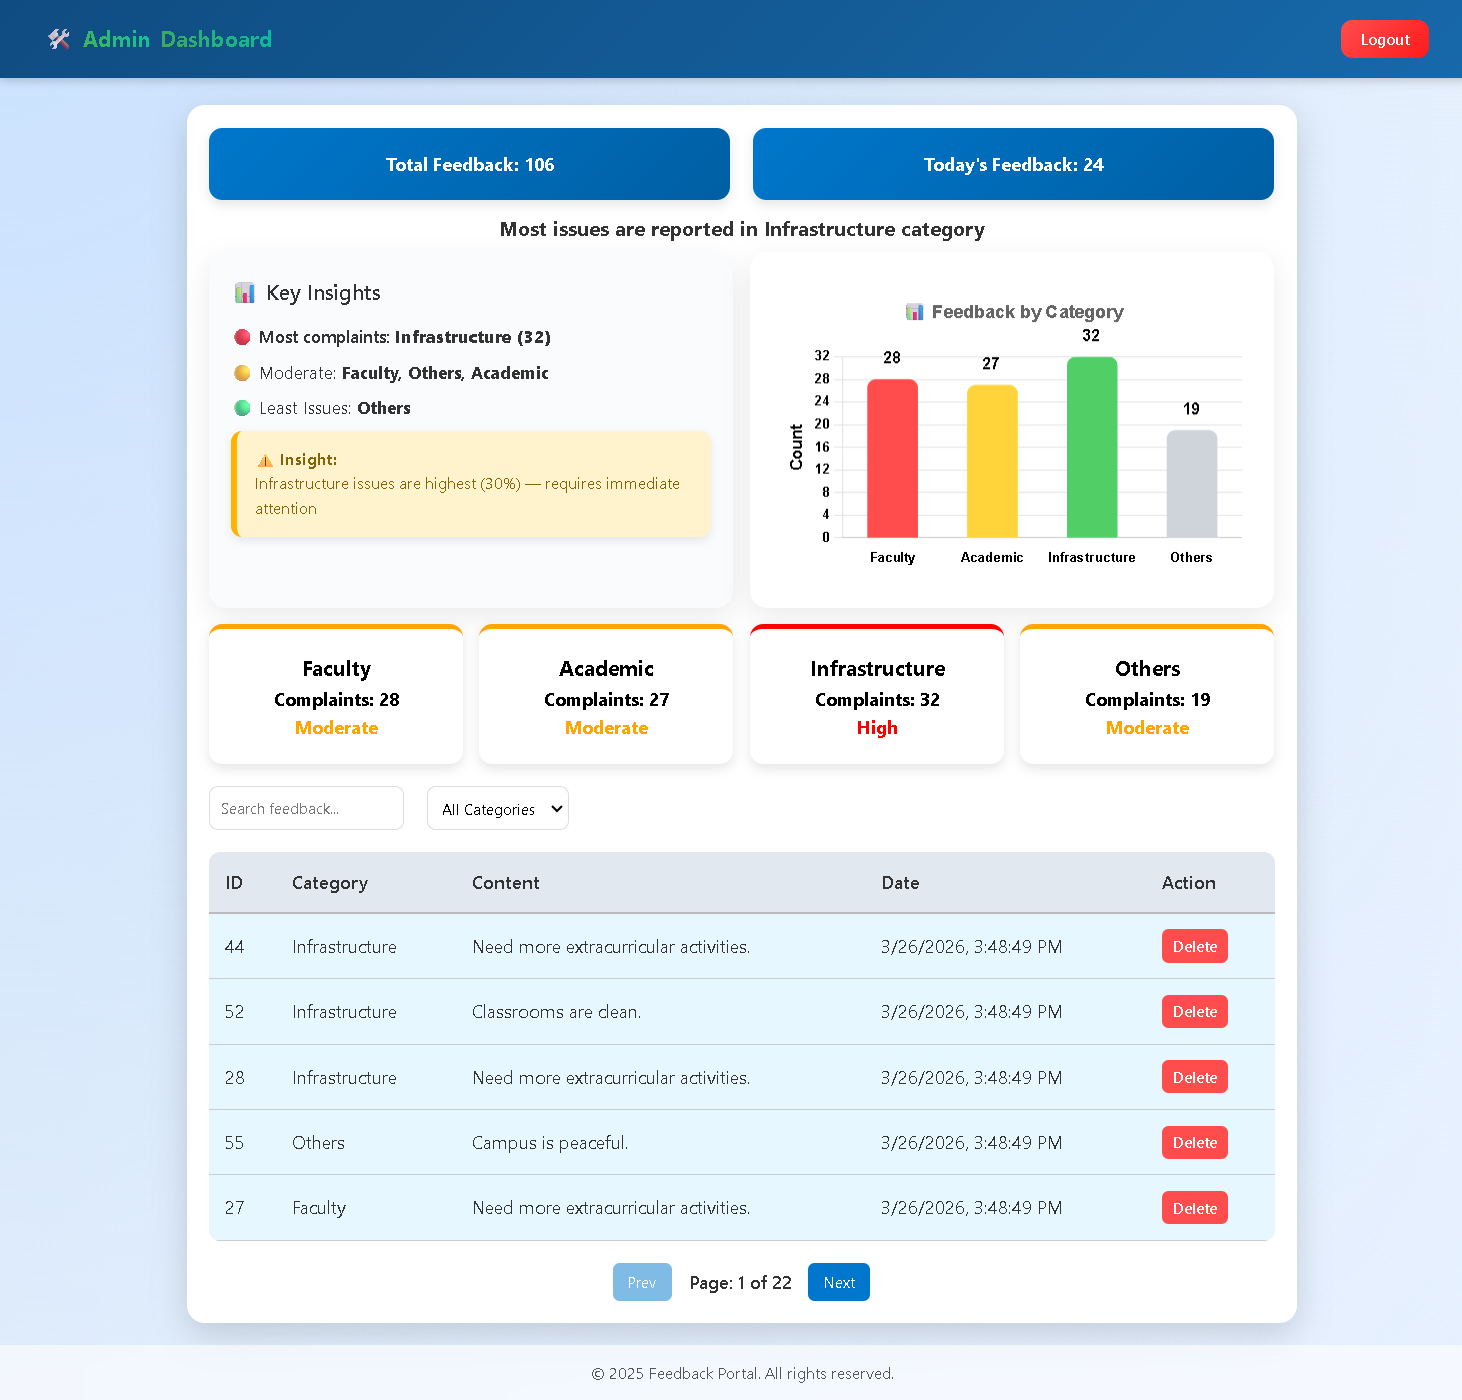
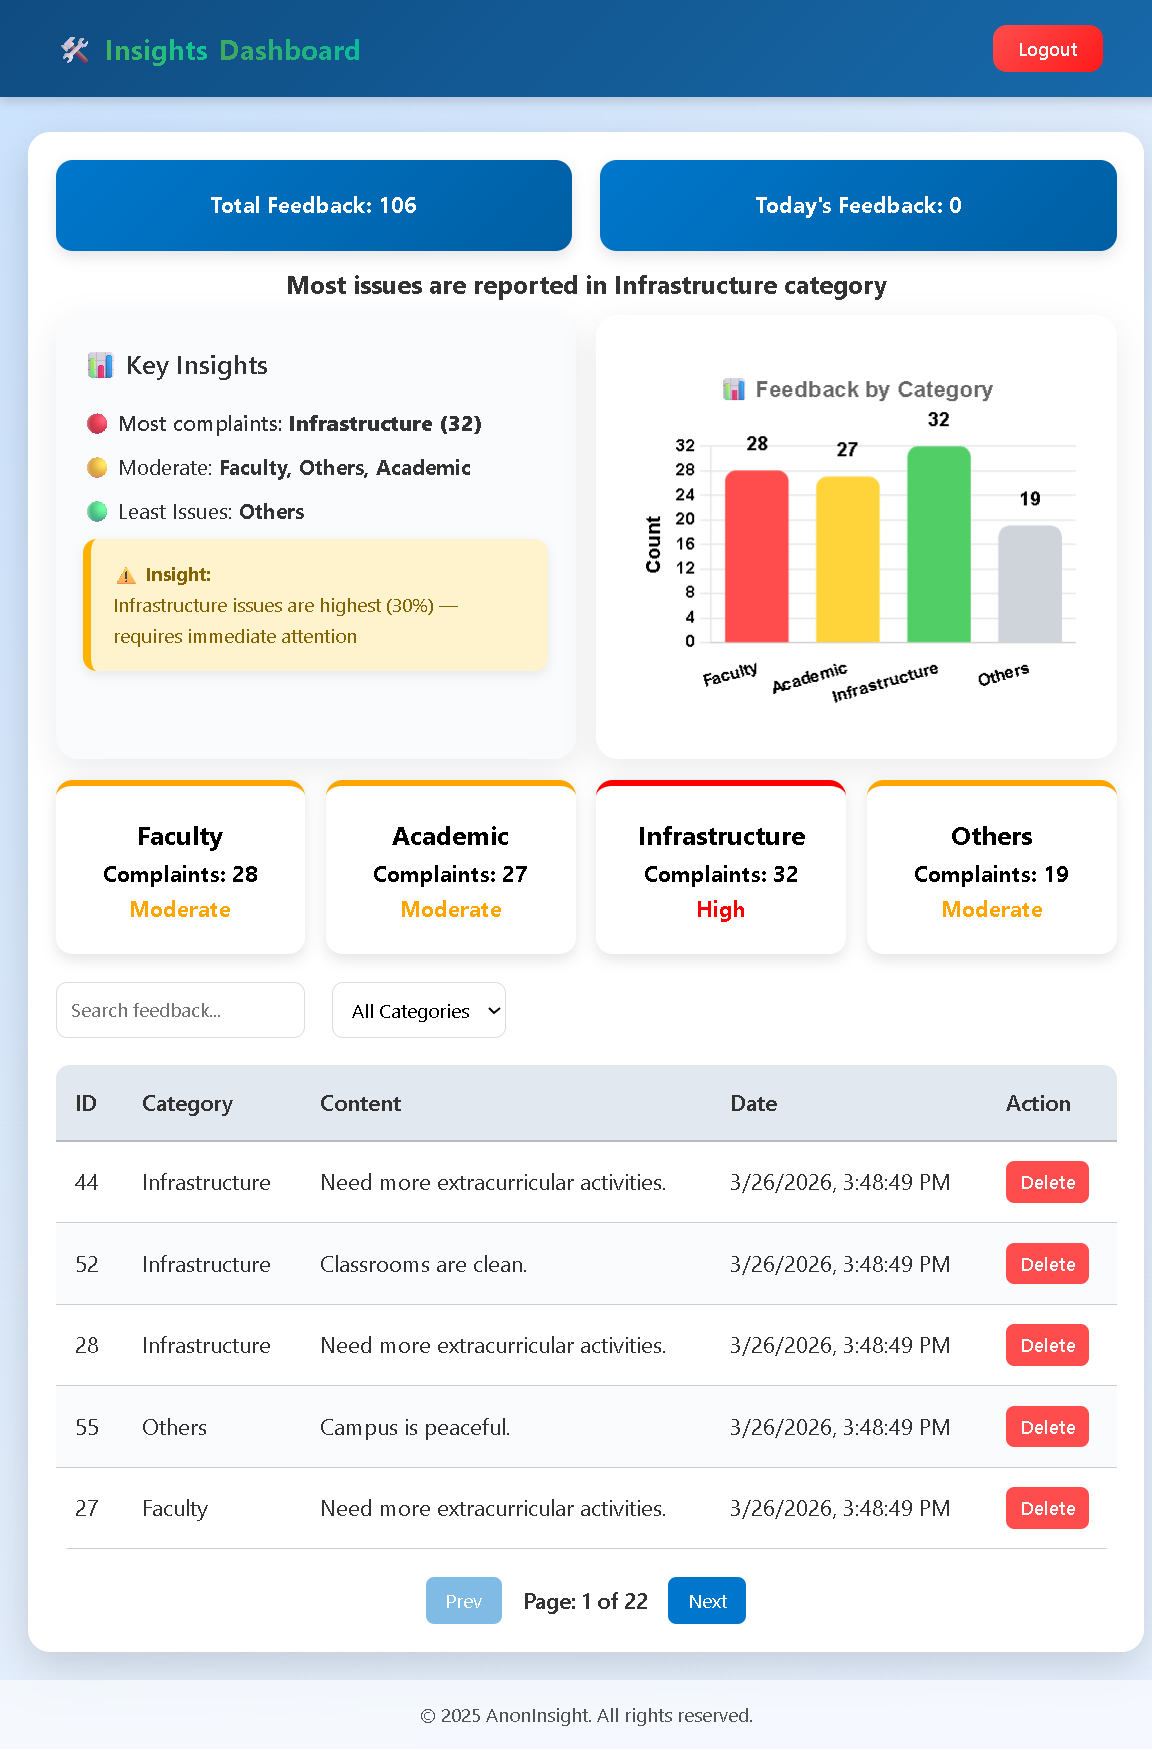
Updated changes in the project

diff --git a/src/main/resources/static/index.html b/src/main/resources/static/index.html
@@ -13,8 +13,7 @@
 <header>
     <div class="navbar">
             <div class="logo">
-                💬 <span class="brand">Feedback</span>
-                <span class="sub">Portal</span>
+                💬 <span class="brand">AnonInsight</span>
             </div>
             <div class="nav-buttons" id="navButtons">
                 a href="register.html" class="btn btn-secondary">Register</a>
@@ -27,16 +26,15 @@
 
     <div class="welcome-box">
 
-        <h2>Welcome to the Feedback Portal!</h2>
+        <h2>Welcome to AnonInsight!</h2>
 
         <p>
-            Share your thoughts freely and honestly.
-            Your identity remains confidential.
+            Submit feedback anonymously and gain actionable insights through a secure admin dashboard.
         </p>
 
         <!-- 🔥 CTA Button -->
         <button class="btn btn-primary" onclick="handleMainAction()">
-            Get Started
+            Submit Feedback
         </button>
 
     </div>
@@ -44,7 +42,7 @@
 </div>
 
 <footer>
-    © 2025 Feedback Portal. All rights reserved.
+    © 2025 AnonInsight. All rights reserved.
 </footer>
 
 <script>

diff --git a/src/main/resources/static/feedback.html b/src/main/resources/static/feedback.html
@@ -11,8 +11,8 @@
 <header>
     <nav class="navbar">
         <div class="logo">
-            💬 <span class="brand">Feedback</span>
-            <span class="sub">Portal</span>
+            💬 <span class="brand">AnonInsight</span>
+
         </div>
 
         <div class="nav-buttons">
@@ -23,8 +23,8 @@
 
 <div class="container">
     <div class="form-container">
-        <h2>Submit Feedback</h2>
-        <p class="sub-text">We value your opinion 💡</p>
+        <h2>Submit Anonymous Feedback</h2>
+        <p class="sub-text">Your identity is not stored. Share your thoughts freely.</p>
 
         <form id="feedbackForm">
 
@@ -61,7 +61,7 @@
 </div>
 
 <footer>
-    <p>&copy; 2025 Feedback Portal. All rights reserved.</p>
+    <p>&copy; 2025 AnonInsight. All rights reserved.</p>
 </footer>
 
 <!-- Toast -->

diff --git a/src/main/resources/static/admin.html b/src/main/resources/static/admin.html
@@ -2,7 +2,7 @@
 <html lang="en">
 <head>
     <meta charset="UTF-8">
-    <title>Admin Dashboard</title>
+    <title>Insights Dashboard</title>
     <link rel="stylesheet" href="style.css">
 </head>
 <body>
@@ -10,7 +10,7 @@
 <header>
     <nav class="navbar">
         <div class="logo">
-            🛠 <span class="brand">Admin</span>
+            🛠 <span class="brand">Insights</span>
             <span class="sub">Dashboard</span>
         </div>
 
@@ -88,7 +88,7 @@
 </div>
 
 <footer>
-    <p>&copy; 2025 Feedback Portal. All rights reserved.</p>
+    <p>&copy; 2025 AnonInsight. All rights reserved.</p>
 </footer>
 
 <div id="toast" class="toast"></div>

diff --git a/src/main/resources/static/register.html b/src/main/resources/static/register.html
@@ -12,8 +12,7 @@
 <header>
     <div class="navbar">
         <div class="logo">
-            💬 <span class="brand">Feedback</span>
-            <span class="sub">Portal</span>
+            💬 <span class="brand">AnonInsight</span>
         </div>
     </div>
 </header>
@@ -39,7 +38,7 @@
 </div>
 
 <footer>
-    <p>&copy; 2025 Feedback Portal. All rights reserved.</p>
+    <p>&copy; 2025 AnonInsight. All rights reserved.</p>
 </footer>
 
 <!-- ✅ Toast -->

diff --git a/src/main/resources/static/login.html b/src/main/resources/static/login.html
@@ -12,8 +12,8 @@
 <header>
     <div class="navbar">
         <div class="logo">
-            💬 <span class="brand">Feedback</span>
-            <span class="sub">Portal</span>
+            💬 <span class="brand">AnonInsight</span>
+
         </div>
     </div>
 </header>
@@ -38,7 +38,7 @@
 </div>
 
 <footer>
-    <p>&copy; 2025 Feedback Portal. All rights reserved.</p>
+    <p>&copy; 2025 AnonInsight. All rights reserved.</p>
 </footer>
 
 <!-- Toast -->
